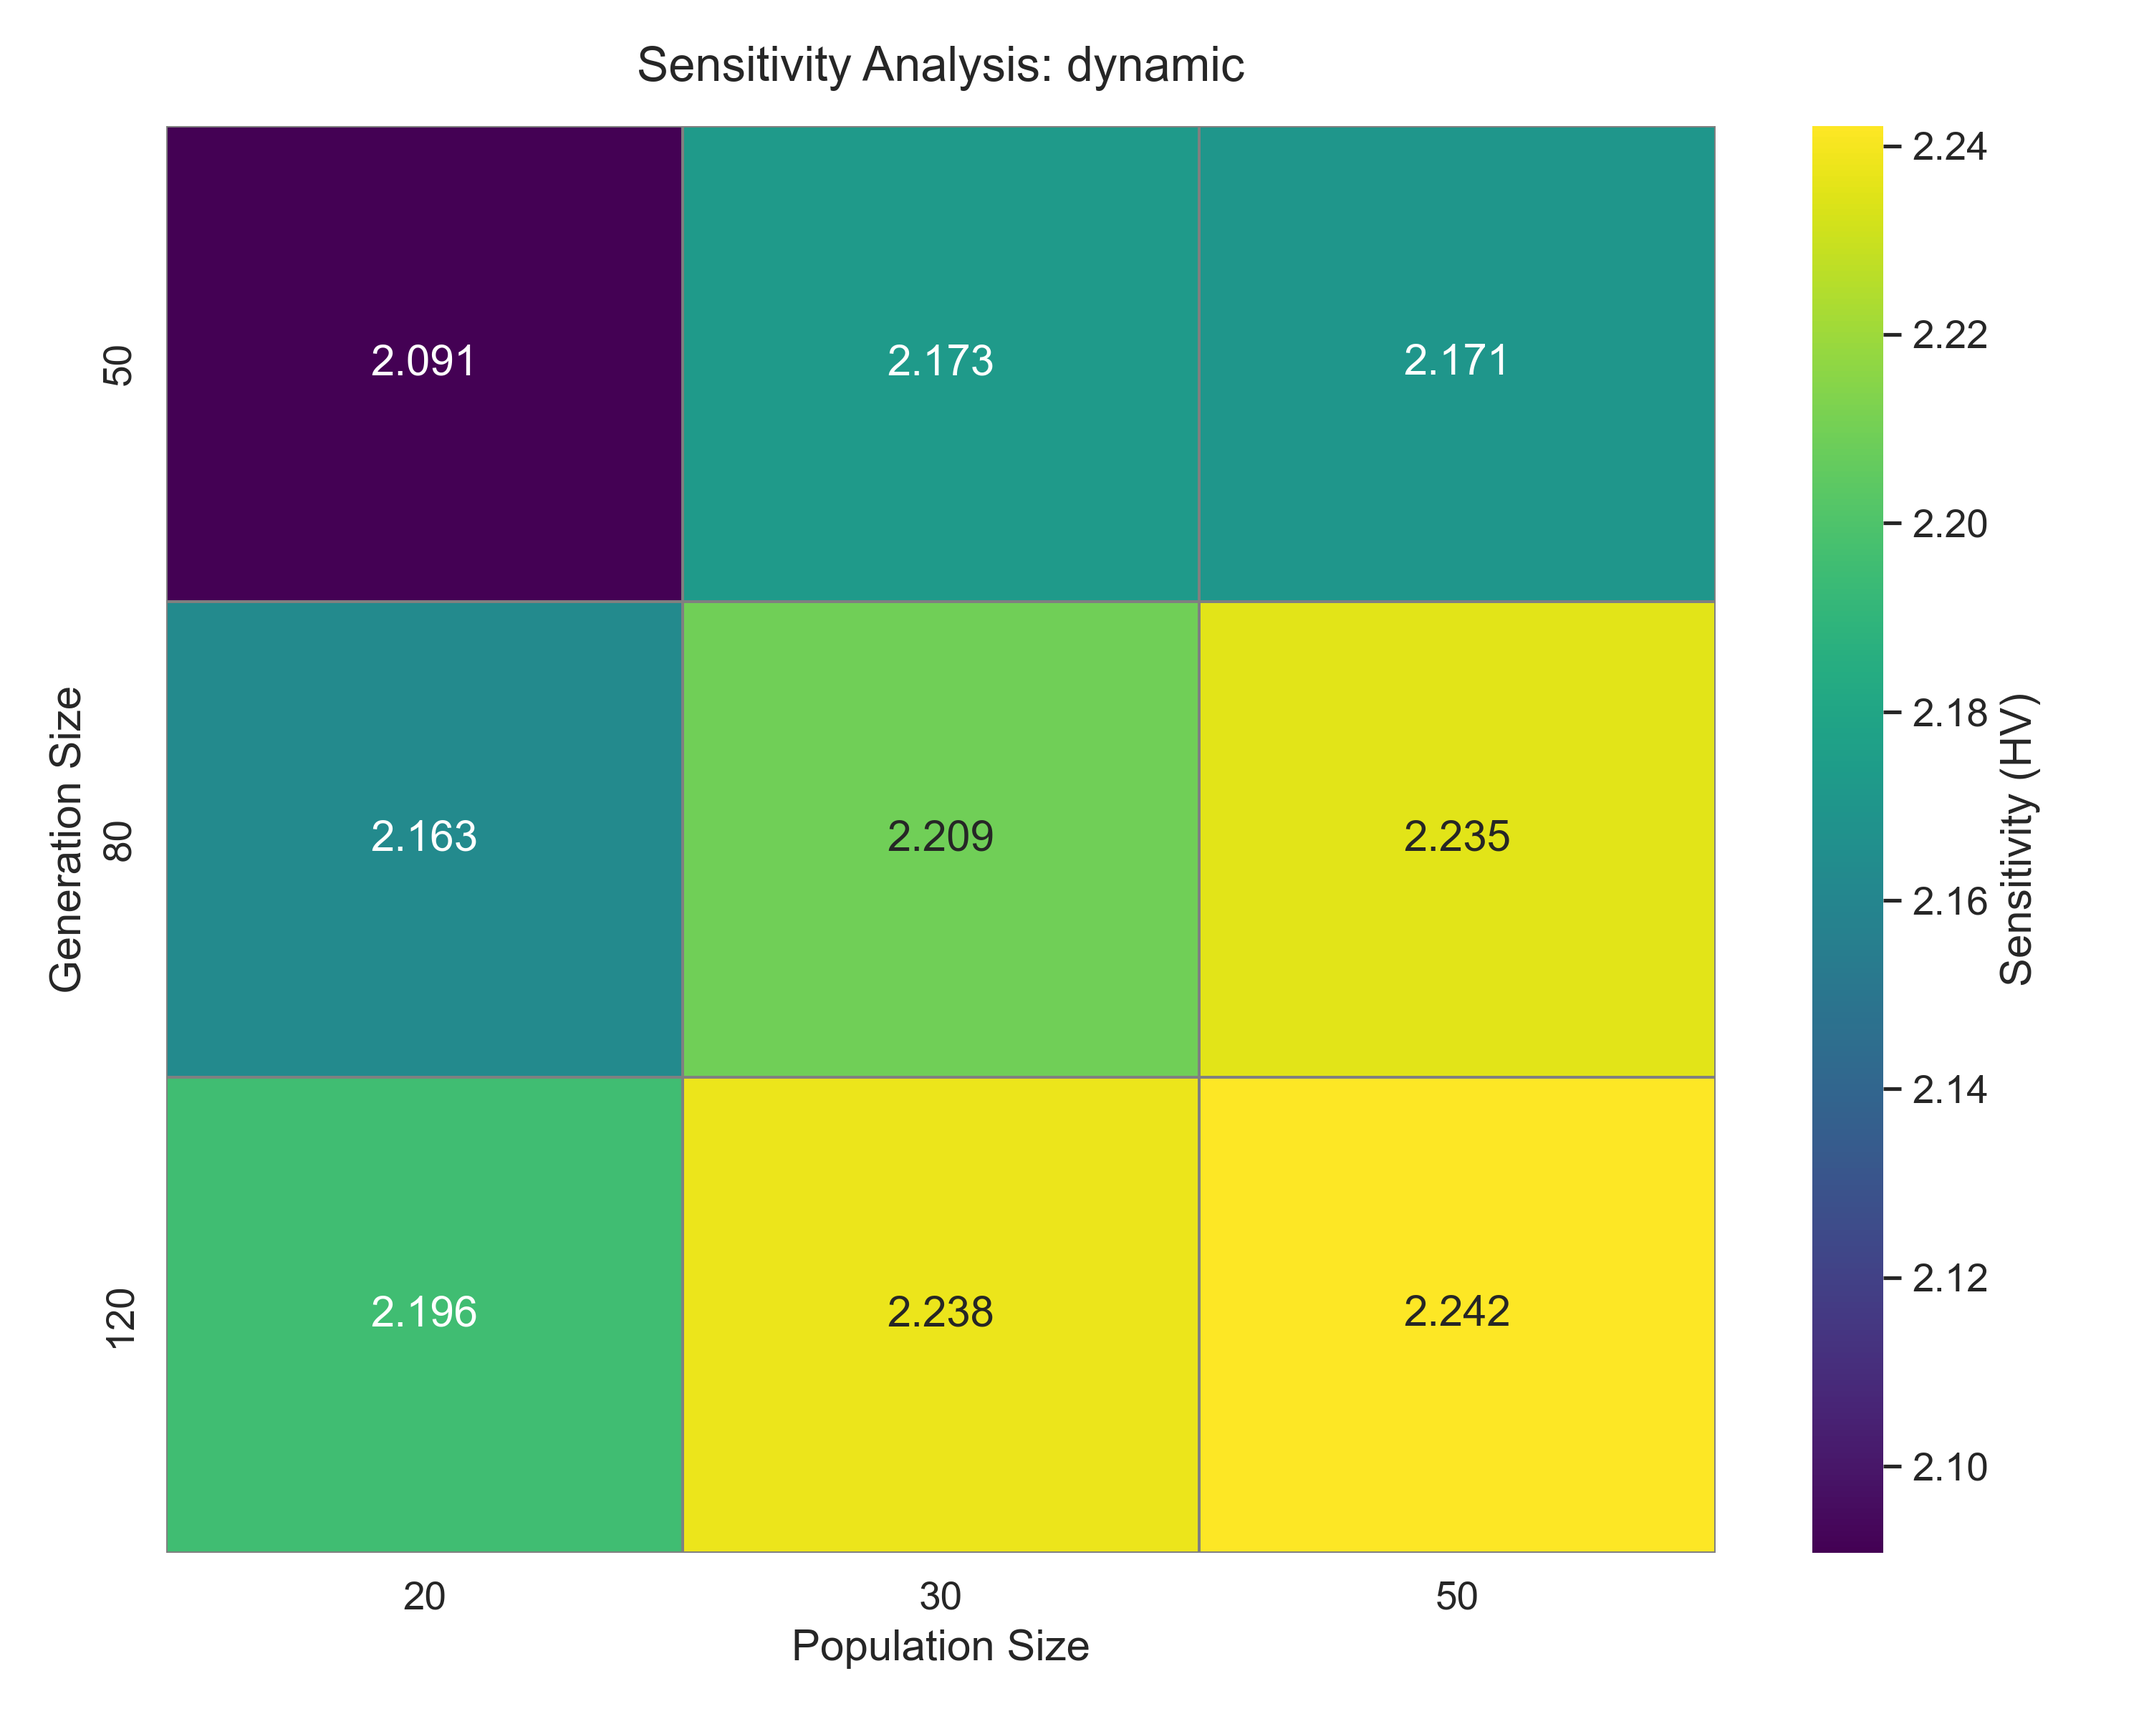
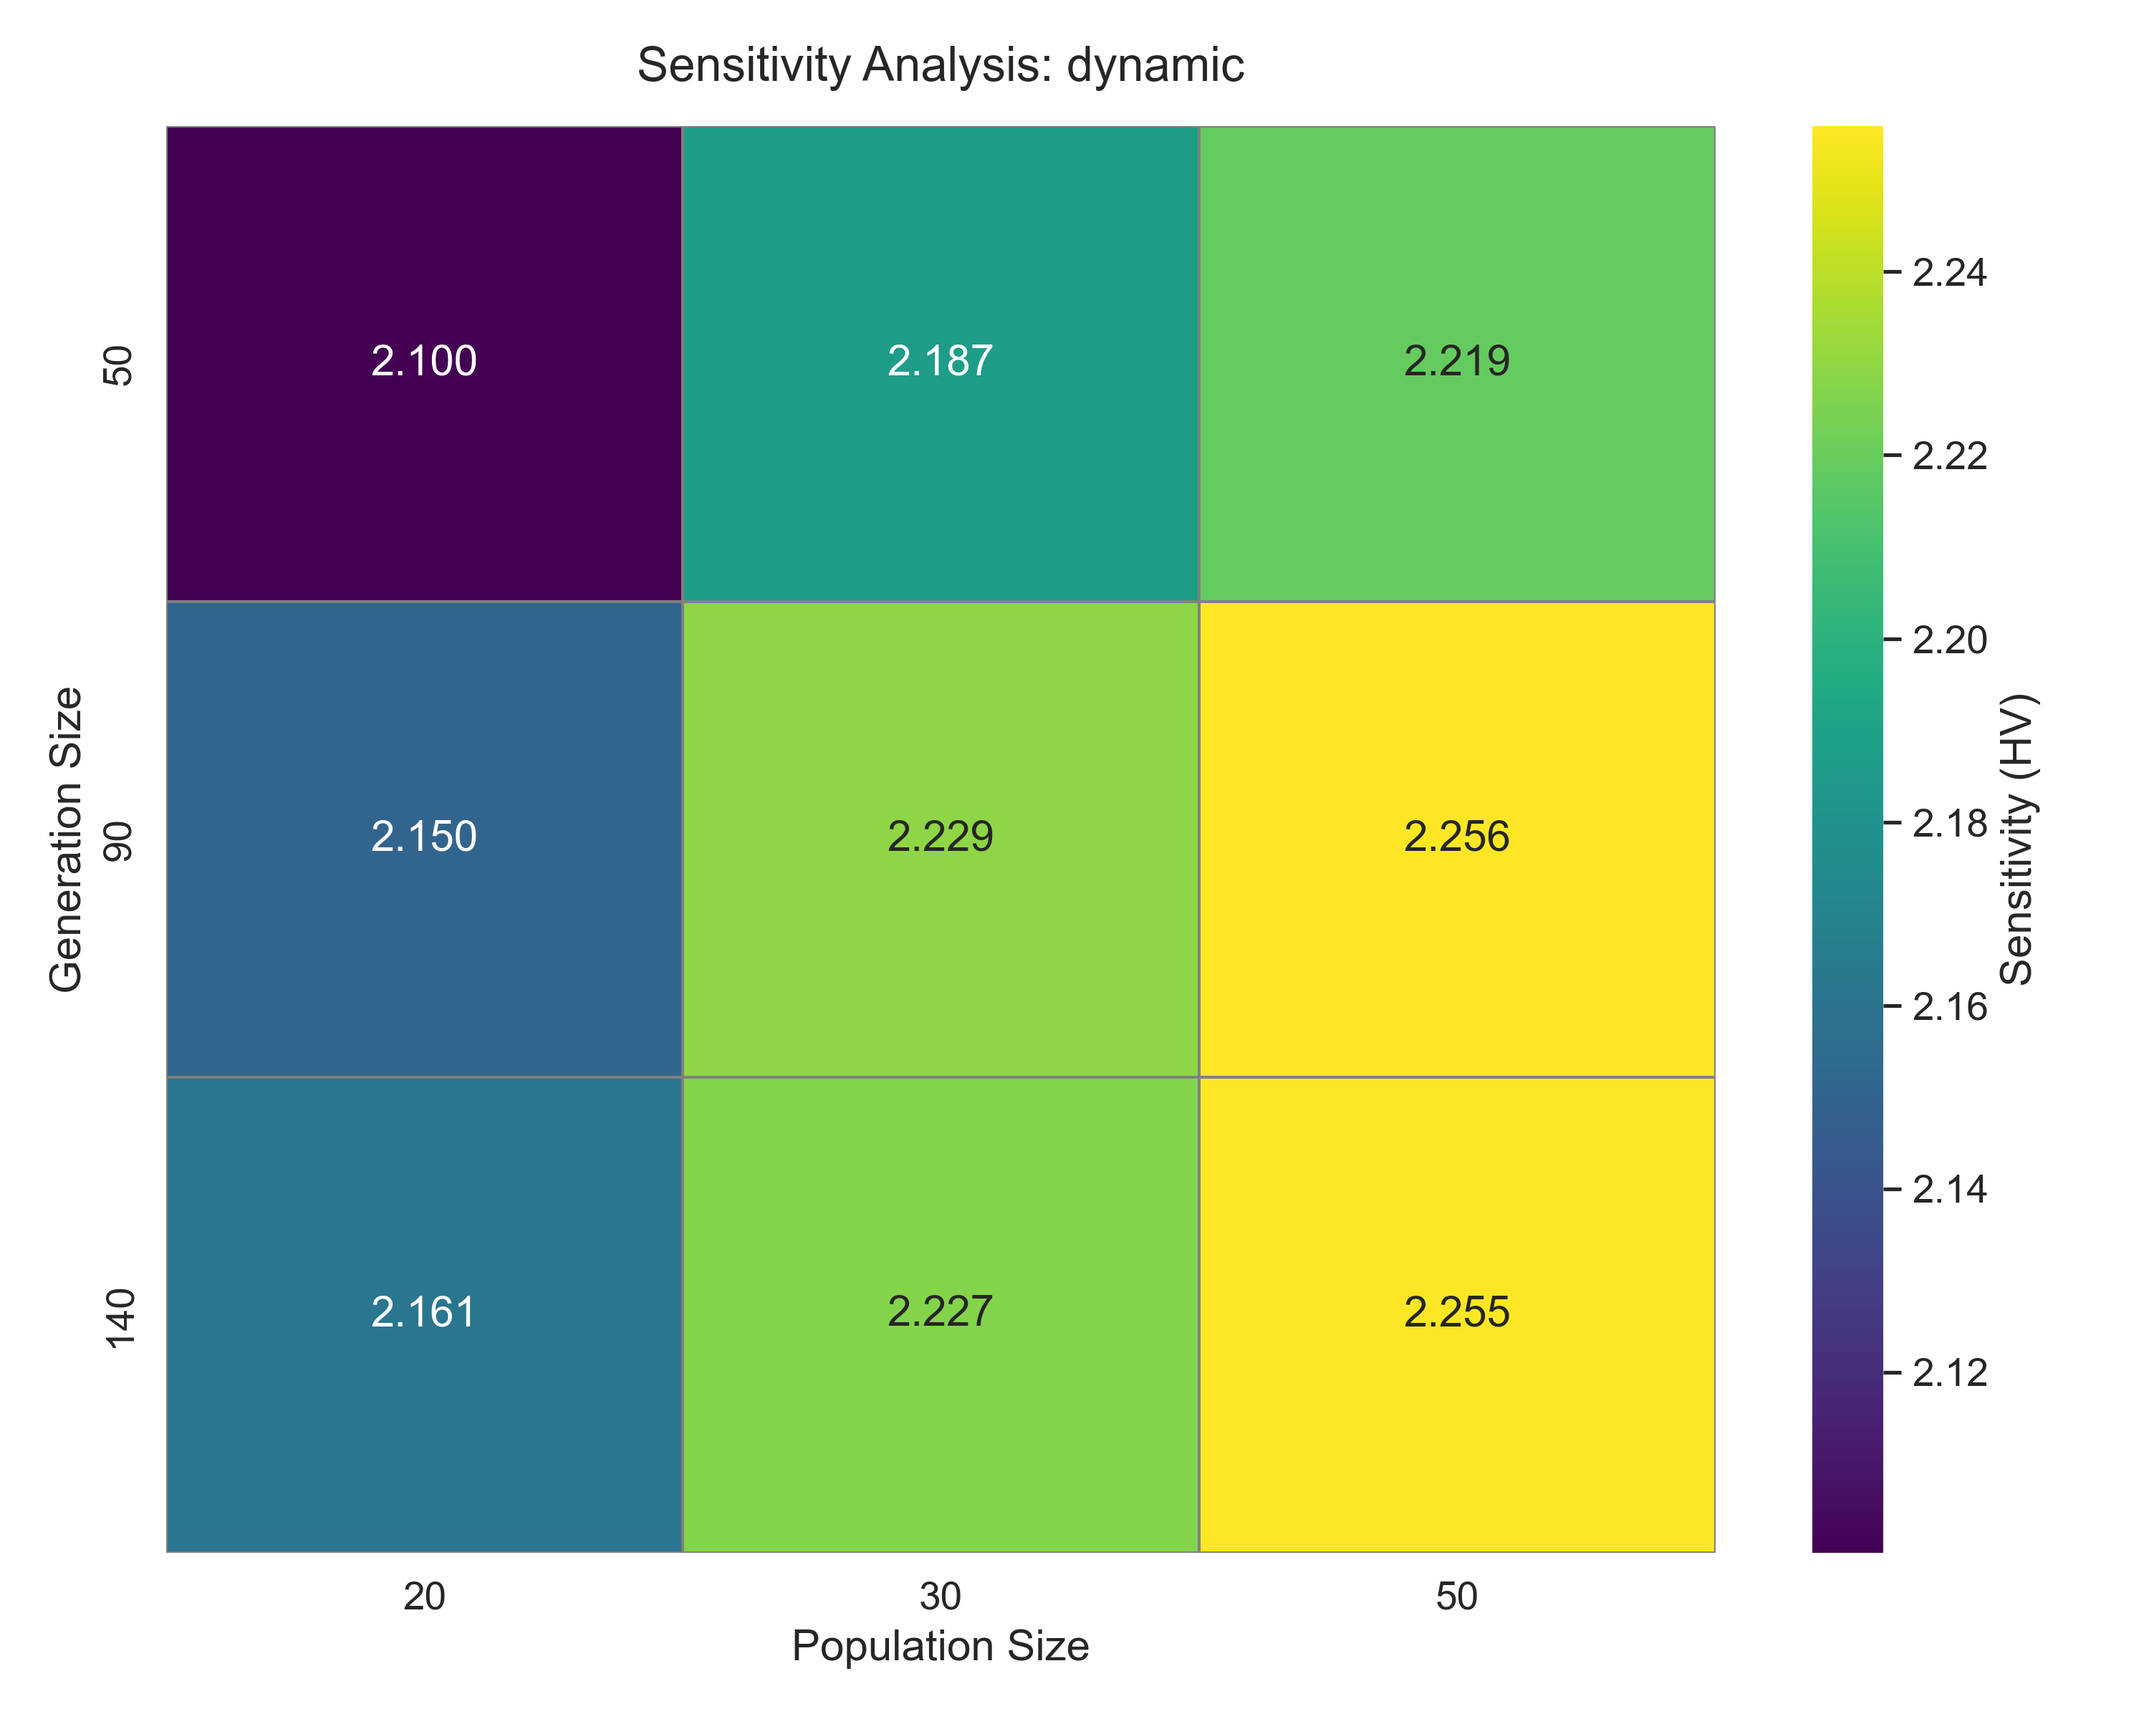
Final final

diff --git a/lab02.py b/lab02.py
@@ -79,7 +79,7 @@ sens_island3d = []
 sens_standard3d = []
 sens_steady3d = []
 population_sizes = [20, 30, 50]
-evaluation_numbers = [50, 80, 120]
+evaluation_numbers = [50, 90, 140]
 for pop in population_sizes:
     for ev in evaluation_numbers:
         island_data = []
@@ -96,14 +96,14 @@ for pop in population_sizes:
             print("Island 2D", ev, pop)
             standard_data.append(evolve(pop, ev, stocks_expected_return, stocks_covariance, False))
             print("Standard 2D", ev, pop)
-            steady_data.append(evolve_steady(pop, (ev//2 * 10) + ev, stocks_expected_return, stocks_covariance, False))
+            steady_data.append(evolve_steady(pop, (ev//2 * 6) + ev, stocks_expected_return, stocks_covariance, False))
             print("Steady 2D", ev, pop)
 
             island_data3d.append(evolve_dynamic(pop, ev, stocks_expected_return, stocks_covariance, True))
             print("Island 3D", ev, pop)
             standard_data3d.append(evolve(pop, ev, stocks_expected_return, stocks_covariance, True))
             print("Standard 3D", ev, pop)
-            steady_data3d.append(evolve_steady(pop, (ev//2 * 10) + ev, stocks_expected_return, stocks_covariance, True))
+            steady_data3d.append(evolve_steady(pop, (ev//2 * 6) + ev, stocks_expected_return, stocks_covariance, True))
             print("Steady 3D", ev, pop)
 
 
@@ -115,311 +115,14 @@ for pop in population_sizes:
         sens_standard3d.append((pop, ev, standard_data3d))
         sens_steady3d.append((pop, ev, steady_data3d))
 
-debug2d_animated_3way(
-    [sens_steady[-1][2][-1], sens_island[-1][2][-1], sens_standard[-1][2][-1]],
-    stocks_expected_return,
-    stocks_covariance
-)
 
-debug3d_animated_side_by_side(
-    [sens_steady3d[-1][2][-1], sens_island3d[-1][2][-1], sens_standard3d[-1][2][-1]],
-    stocks_expected_return,
-    stocks_covariance
-)
-
-def plot_hv(histories_map, hv_fn, ref_point, title, save_path):
-    import numpy as np
-    import matplotlib.pyplot as plt
-
-    plt.figure(figsize=(10, 9))
-
-    for name in ["dynamic", "standard", "steady"]:
-        histories = histories_map[name]
-
-        x, y, stds = [], [], []
-        num_gens = len(histories[0])
-
-        for i in range(num_gens):
-            x.append(histories[0][i][0])
-
-            hvs = [
-                hv_fn(
-                    history[i][1],
-                    ref_point,
-                    stocks_expected_return,
-                    stocks_covariance
-                )
-                for history in histories
-            ]
-
-            y.append(np.mean(hvs))
-            stds.append(np.std(hvs))
-
-        x = np.array(x)
-        y = np.array(y)
-        stds = np.array(stds)
-
-        plt.plot(x, y, label=f"pop={name}")
-        plt.fill_between(x, y - stds, y + stds, alpha=0.2)
-
-    plt.ylabel("Hypervolume")
-    plt.xlabel("Evaluation")
-    plt.title(title)
-    plt.legend()
-    plt.savefig(save_path)
-    plt.show()
-
-def visualize_sensitivity(populations, f, point, name):
-    records = []
-
-    for pop_size, gen_size, pops in populations:
-        c = [
-            f(
-                p[-1][1],
-                point,
-                stocks_expected_return,
-                stocks_covariance
-            )
-            for p in pops
-        ]
-
-        records.append({
-            "Population": pop_size,
-            "Generations": gen_size,
-            "HV": np.mean(c)
-        })
-
-    df = pd.DataFrame(records)
-
-    # Pivot into grid
-    pivot = df.pivot(index="Generations", columns="Population", values="HV")
-
-    plt.figure(figsize=(10, 8))
-    sns.set_theme(style="whitegrid", font_scale=1.2)
-
-    ax = sns.heatmap(
-        pivot,
-        cmap="viridis",
-        annot=True,          # show values
-        fmt=".3f",
-        linewidths=0.5,
-        linecolor="gray",
-        cbar_kws={"label": "Sensitivity (HV)"}
-    )
-
-    ax.set_title(f"Sensitivity Analysis: {name}", fontsize=16, pad=15)
-    ax.set_xlabel("Population Size")
-    ax.set_ylabel("Generation Size")
-
-    plt.tight_layout()
-    plt.savefig(f"figs/new_sensitivity_{name}.png", dpi=300)
-    plt.show()
-
-visualize_sensitivity(sens_island,  hypervolume, (1.0, 0), "dynamic")
-visualize_sensitivity(sens_steady,  hypervolume, (1.0, 0), "steady")
-visualize_sensitivity(sens_standard,  hypervolume, (1.0, 0), "standard")
-
-visualize_sensitivity(sens_island3d,  hypervolume3d, (1.0, 0, 0), "dynamic3d")
-visualize_sensitivity(sens_steady3d,  hypervolume3d, (1.0, 0, 0), "steady3d")
-visualize_sensitivity(sens_standard3d,  hypervolume3d, (1.0, 0, 0), "standard3d")
-
-
-plot_hv(
-    {
-        "dynamic": sens_island[-1][2],
-        "standard": sens_standard[-1][2],
-        "steady": sens_steady[-1][2],
-    },
-    hypervolume,
-    (1.0, 0),
-    "Hypervolume for NSGA-II (2D case)",
-    "figs/hv_new_methods.png"
-)
-plot_hv(
-    {
-        "dynamic": sens_island3d[-1][2],
-        "standard": sens_standard3d[-1][2],
-        "steady": sens_steady3d[-1][2],
-    },
-    hypervolume3d,
-    (1.0, 0, 0),
-    "Hypervolume for NSGA-II (3D case)",
-    "figs/hv_new_methods3D.png"
-)
-
-# pop_sizes = [20, 30, 40, 50]
-# gen_sizes = [100, 150, 200]
-# n_repeats = 10
-# populations_2d = []
-
-# for pop_size in pop_sizes:
-#     for gen_size in gen_sizes:
-#         pops = []
-#         for _ in range(n_repeats):
-#             pops.append(evolve(pop_size, gen_size, stocks_expected_return, stocks_covariance, False))
-#         populations_2d.append((pop_size, gen_size,pops))
-# populations_3d = []
-
-# ideal_pareto_front_2d = np.array(ecm_solutions)
-# ideal_pareto_front_3d = []
-
-# for pop_size in pop_sizes:
-#     for gen_size in gen_sizes:
-#         pops = []
-#         for _ in range(n_repeats):
-#             pops.append(evolve(pop_size, gen_size, stocks_expected_return, stocks_covariance, True))
-#             ideal_pareto_front_3d = pops[-1][-1]
-#         populations_3d.append((pop_size, gen_size,pops))
-
-
-
-
-# visualize_sensitivity(populations_3d, ideal_pareto_front_3d, "3D")
-# visualize_sensitivity(populations_2d, ideal_pareto_front_2d, "2D")
-
-
-# best_pops = []
-# best_pop_size = 0
-# best_gen_size = 0
-
-# best_hv = 0
-# for pop_size, gen_size, pops in populations_2d:
-#     c = []
-#     for p in pops:
-#         hv = hypervolume(p[-1], (0.1,1.5), stocks_expected_return, stocks_covariance)
-#         if hv > best_hv:
-#             best_pops = pops 
-#             best_hv = hv
-#             best_pop_size = pop_size
-#             best_gen_size = gen_size
-
-
-# plt.figure(figsize=(10, 9))
-
-# for pop_size, gen_size, pops in populations_2d:
-#     if gen_size != gen_sizes[-1]:
-#         continue
-#     x = []
-#     y = []
-#     stds = []
-
-#     num_gens = len(pops[0])  # assume all runs same length
-
-#     for i in range(num_gens):
-#         x.append(i)
-#         hvs = []
-
-#         for p in pops:
-#             hv = hypervolume(
-#                 p[i],
-#                 (0.1, 1.5),
-#                 stocks_expected_return,
-#                 stocks_covariance
-#             )
-#             hvs.append(hv)
-
-#         y.append(np.mean(hvs))
-#         stds.append(np.std(hvs))
-
-#     y = np.array(y)
-#     stds = np.array(stds)
-
-#     plt.plot(x, y, label=f"pop={pop_size}")
-#     plt.fill_between(x, y - stds, y + stds, alpha=0.2)
-
-# plt.ylabel("Hypervolume")
-# plt.xlabel("Generation")
-# plt.title(f"Change in hypervolume for NSGA-II (2D case, pop={best_pop_size})")
-# plt.legend()
-# plt.savefig("figs/hv_2d.png")
-# plt.show()
-
-# c = evaluate_population(best_pops[-1][-1], stocks_expected_return, stocks_covariance)
-# nsga2_x_returns = -c[:,1]
-# nsga2_y_risks = c[:,0]
-
-# fig, ax = plt.subplots(3, 1, sharex=True, sharey=True, figsize=(10,9))
-# ax[0].scatter(wsm_x_returns, wsm_y_risks); ax[0].set_title("WSM")
-# ax[1].scatter(ecm_x_returns, ecm_y_risks); ax[1].set_title("ECM"); ax[1].set_ylabel("Risk")
-# ax[2].scatter(nsga2_x_returns, nsga2_y_risks); ax[2].set_title("NSGAII")
-# plt.xlabel("Return")
-# plt.savefig("figs/pareto_front_comp_2d.png")
-# plt.show()
-
-
-# debug2d(best_pops[-1], stocks_expected_return, stocks_covariance)
-# debug3d(populations_3d[-1][-1][-1], stocks_expected_return, stocks_covariance)
-# initial_solution = get_random_solution(3)
-
-# x = []
-# y = []
-# z = []
-
-# for i in range(30):
-#     s = mutate(initial_solution)
-#     x.append(s[0])
-#     y.append(s[1])
-#     z.append(s[2])
-
-# fig = plt.figure(figsize=(10, 9))
-# ax = fig.add_subplot(111, projection='3d')
-
-# # Plot initial point
-# ax.scatter(initial_solution[0], initial_solution[1], initial_solution[2],
-#            label="initial", s=100)
-
-# # Plot mutated points
-# ax.scatter(x, y, z, label="Mutated")
-
-# # Labels (optional but helpful)
-# ax.set_xlabel("X")
-# ax.set_ylabel("Y")
-# ax.set_zlabel("Z")
-# ax.set_xlim(0, 1)
-# ax.set_ylim(0, 1)
-# ax.set_zlim(0, 1)
-# plt.legend()
-# plt.title("Mutation")
-# plt.savefig("figs/mutation_proof.png")
-# plt.show()
-
-# p1 = get_random_solution(3)
-# p2 = get_random_solution(3)
-
-
-# x = []
-# y = []
-# z = []
-
-# for i in range(30):
-#     s1, s2 = crossover(p1, p2)
-#     x.append(s1[0])
-#     y.append(s1[1])
-#     z.append(s1[2])
-#     x.append(s2[0])
-#     y.append(s2[1])
-#     z.append(s2[2])
-
-# fig = plt.figure(figsize=(10, 9))
-# ax = fig.add_subplot(111, projection='3d')
-
-# ax.scatter([p1[0], p2[0]], [p1[1], p2[1]], [p1[2], p2[2]],
-#            label="initial", s=100)
-
-# ax.scatter(x, y, z, label="Offspring")
-
-# ax.set_xlabel("X")
-# ax.set_ylabel("Y")
-# ax.set_zlabel("Z")
-# ax.set_xlim(0, 1)
-# ax.set_ylim(0, 1)
-# ax.set_zlim(0, 1)
-# plt.legend()
-# plt.title("Crossover operator")
-# plt.savefig("figs/crossover_proof.png")
-# plt.show()
-
-
-# population_history = evolve(200, 100, stocks_expected_return, stocks_covariance, False)
-# print(inverted_generational_distance(ideal_pareto_front, population_history[-1], stocks_expected_return, stocks_covariance))
-# print(hypervolume(population_history[-1], (0.1,1.5), stocks_expected_return, stocks_covariance))
+results = {
+    "sens_island": sens_island,
+    "sens_standard": sens_standard,
+    "sens_steady": sens_steady,
+    "sens_island3d": sens_island3d,
+    "sens_standard3d": sens_standard3d,
+    "sens_steady3d": sens_steady3d,
+}
+
+save_results("results.pkl", results)

diff --git a/lab02utils.py b/lab02utils.py
@@ -12,6 +12,15 @@ from matplotlib.animation import FuncAnimation
 import numpy as np
 from scipy.spatial import cKDTree
 from pymoo.indicators.hv import HV
+import pickle
+
+def save_results(filename, data):
+    with open(filename, "wb") as f:
+        pickle.dump(data, f)
+
+def load_results(filename):
+    with open(filename, "rb") as f:
+        return pickle.load(f)
 
 def load_stock_data(filename):
     with open(filename, "r") as file:
@@ -396,7 +405,7 @@ def evolve_steady(pop_size, generations, stocks_expected_return, stocks_covarian
     population_history = [(evals, population)]
     for g in range(1, generations):
 
-        if g < generations / 2:
+        if g < generations * 0.65:
             offspring = selection_elite(population, 2)[1:]
         else:
             offspring = selection(population, int(pop_size * 0.2))
@@ -667,7 +676,6 @@ def inverted_generational_distance(ideal_pareto_front, population,
                                       stocks_expected_return,
                                       stocks_covariance)
 
-    # normalization
     norm_min = criteria_pf.min(axis=0)
     norm_max = criteria_pf.max(axis=0)
     denom = np.where(norm_max - norm_min == 0, 1.0, norm_max - norm_min)
@@ -675,10 +683,8 @@ def inverted_generational_distance(ideal_pareto_front, population,
     criteria_population = (criteria_population - norm_min) / denom
     criteria_pf = (criteria_pf - norm_min) / denom
 
-    # build KD-tree on population
     tree = cKDTree(criteria_population)
 
-    # query nearest neighbor distances for all PF points at once
     distances, _ = tree.query(criteria_pf, k=1)
 
     return distances.mean()
